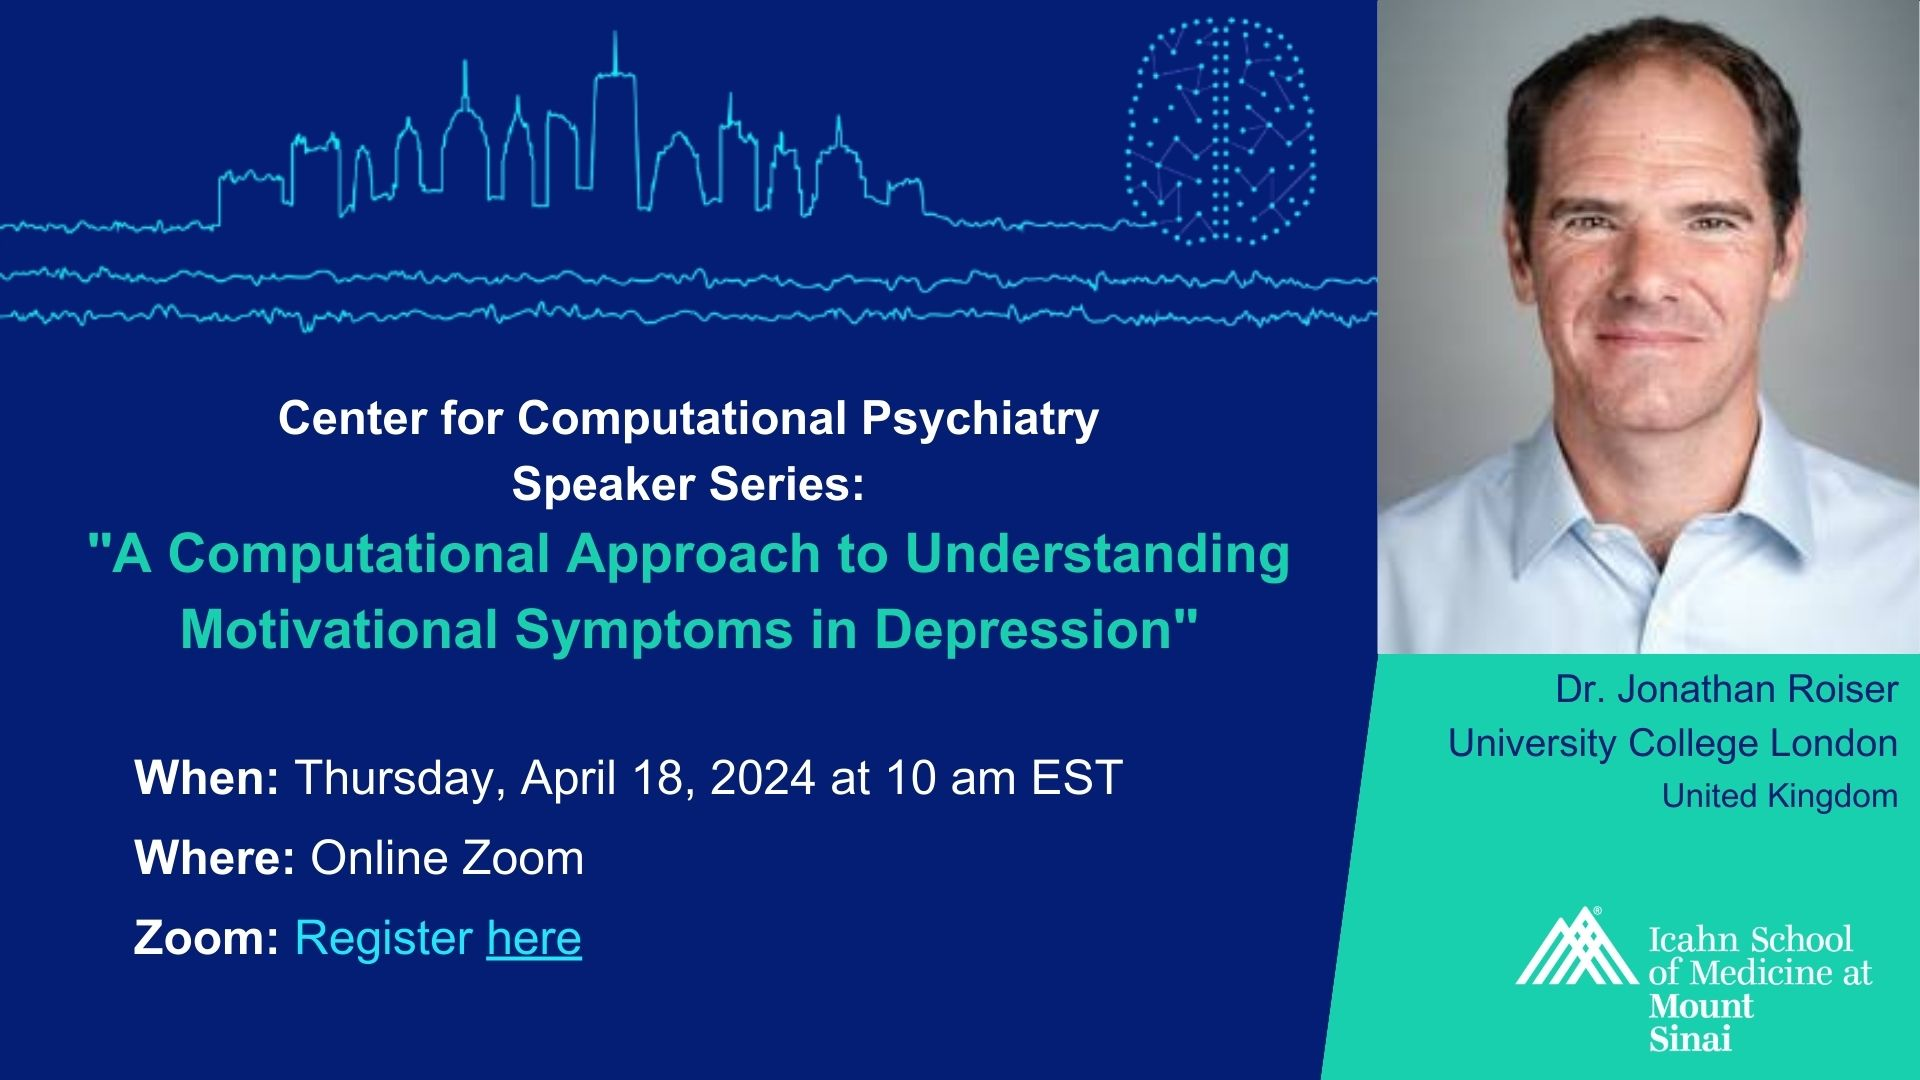
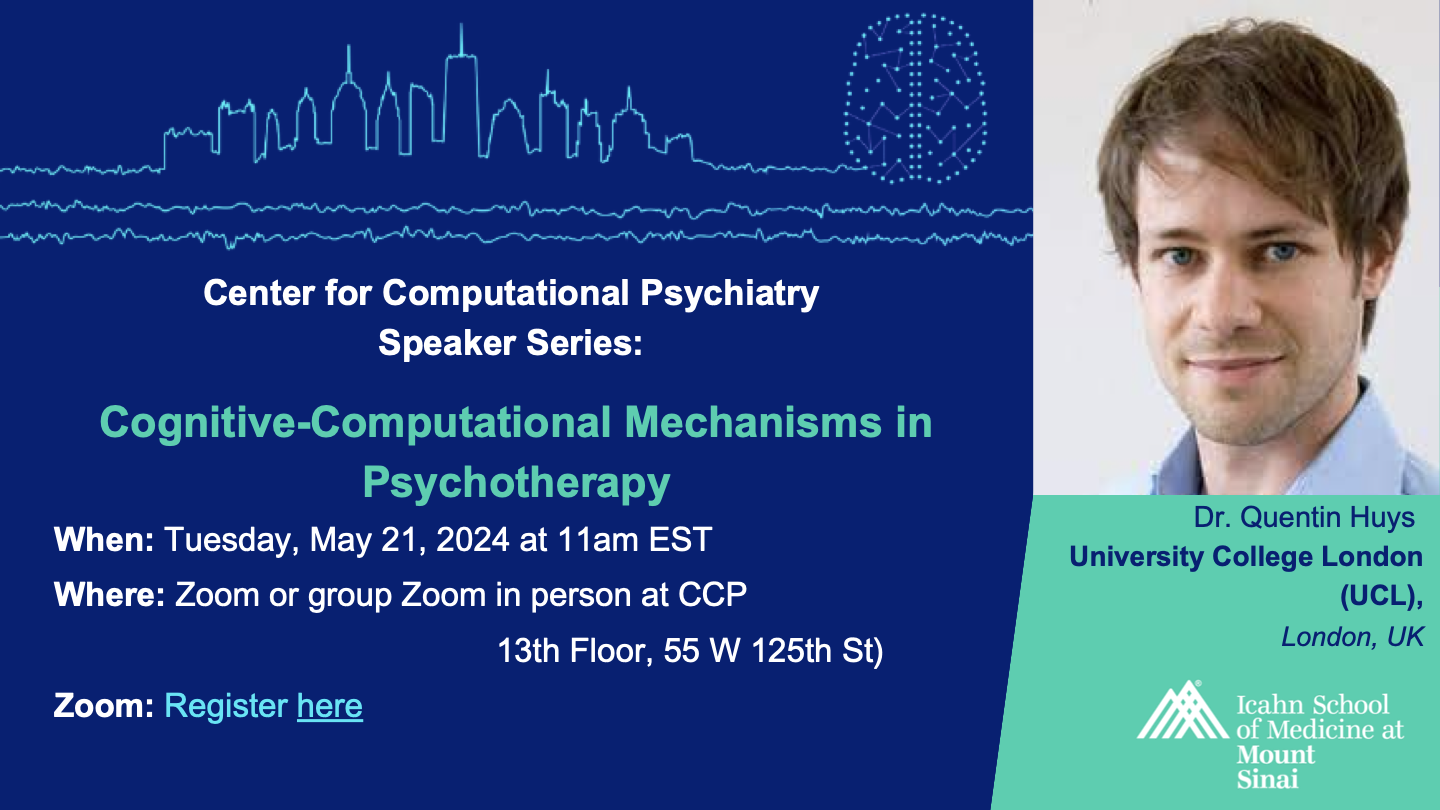
update

diff --git a/README.md b/README.md
@@ -16,7 +16,8 @@ For more information, please get in touch with Alessandra Yu at `alessandra.yu@i
 | 2024/02/23 | Casper Hesp     |[Link](https://docs.google.com/forms/d/e/1FAIpQLSfnWEJJhjyA800U-FTM35zJFDRRSP-wrown3bJK73MjpmBCtQ/viewform)|
 | 2024/03/08 | Dr. David Redish | (FBI Speaker Series)     |
 | 2024/04/19 | Dr. Jonathan Roiser | [Link](https://forms.gle/1hfjJTsioABCXNTP8) |
-| 2024/05/   |  |  |
+| 2024/05/21 | Dr. Quentin Huys  | [Link](https://forms.gle/zJmxtkchRir2GLkRA)  |
+| 2024/05/31 | Dr. Lucina Uddin  | [Link](https://forms.gle/zfVBa85fcBLwdP2n9)  |
 | 2024/06/28 | Dr. Annie Haynos | |
 {: .tablelines}
 
